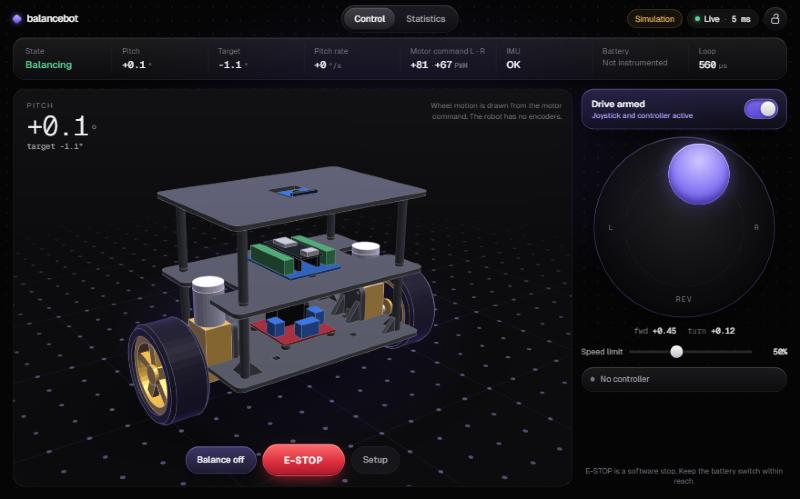
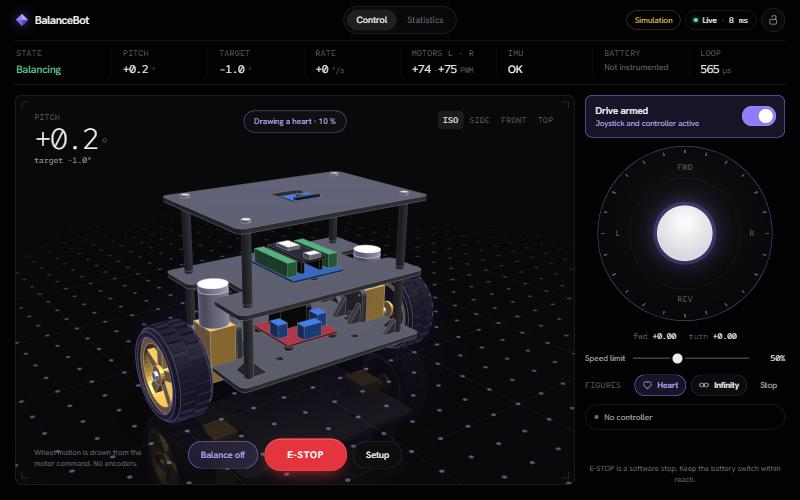
Docs, screenshots and on-robot verification for firmware 2.1.0
README: cover page, stacked signal panel with the PID terms, figures and
how they work, camera presets, new serial command. Research and test
report extended with the second pass, including the results of the
on-robot web self-test.

diff --git a/README.md b/README.md
@@ -108,7 +108,7 @@ The robot serves a two-page web app from its own flash. No internet and no insta
 
 1. Power the robot on. It creates a network called **`BalanceBot-XXXX`**, password **`balance123`** (you can change it in `config.h`). The exact name is shown by the `info` command.
 2. Join it from your phone, tablet or PC. If the device warns "no internet", choose to stay connected.
-3. Open **http://192.168.4.1/control** to drive, or **http://192.168.4.1/statistics** to watch.
+3. Open **http://192.168.4.1** for the cover page, **http://192.168.4.1/control** to drive, or **http://192.168.4.1/statistics** to watch.
 
 The two pages are independent: open Control on one device and Statistics on another at the same time. Both read the same live telemetry, and changing the page on one device does nothing to the other.
 
@@ -117,10 +117,11 @@ The two pages are independent: open Control on one device and Statistics on anot
 ![Control page](docs/img/control.jpg)
 
 - **Status strip:** state, pitch, target, pitch rate, the command sent to each motor, IMU, battery and loop time.
-- **Digital twin:** the robot in 3D, tilting with the measured pitch. Drag to orbit, double-click to reset the view.
+- **Digital twin:** the robot in 3D, tilting with the measured pitch. Drag to orbit, or pick **Iso / Side / Front / Top**. The side view shows the tilt best.
 - **Drive lock:** the switch above the joystick. Until you arm it, the robot only balances and ignores the joystick and the controller.
 - **Joystick:** up = forward, sides = turn. On a PC the arrow keys or WASD work too. Releasing it returns to neutral.
 - **Speed limit:** scales every drive command (default 50 %).
+- **Figures:** with driving armed, **Heart** or **Infinity** makes the robot drive that shape by itself (about 24 s, and about 1.5 m of clear floor). Moving the joystick, **Stop**, or locking the drive cancels it. If you try to drive while locked, the page tells you how to arm.
 - **Balance on/off** and **E-STOP.** E-STOP turns balancing off, locks driving and cancels any test. `Space` or `Esc` on a keyboard does the same.
 - **Padlock (top right):** locks you into this page so you cannot leave it by accident. Press and hold it for a second to unlock.
 - **Setup:** live tuning of all 14 parameters, save/reload, auto-tune, calibration, motor tests, controller mapping and the message log.
@@ -132,9 +133,16 @@ The two pages are independent: open Control on one device and Statistics on anot
 Read-only: this page only requests telemetry and never sends a command.
 
 - **Annotated twin:** numbered cards tied to the IMU, the controller board, the motor driver, each motor and the wheels by leader lines.
-- **Charts:** pitch vs target, motor command left/right, pitch rate, speed estimate and link round trip. Choose a 10, 30 or 60 s window; hover or tap for the value at a point in time.
+- **Signals:** one stacked panel with a shared time axis: pitch and target, the three **PID terms** with the output they add up to, the command to each motor, pitch rate, speed estimate and link round trip.
+  - Hover to read every signal at the same instant.
+  - **Pause**, then drag to go back in time and scroll to zoom; double-click returns to live.
+  - Dashed red lines mark the ±255 PWM limit. Lines break where samples are missing.
 - **Diagnostics:** operating state, IMU, sample rate received, data age, missed samples, failed polls, round trip, uptime, loop time, all controller parameters, and warnings.
 - **Experiments:** press **Record**, let the robot run, press **Stop**. Each run gets a summary (RMS error, max tilt, saturation, mean command, falls) with the gains that were in force, so runs can be compared. **CSV** downloads the samples for MATLAB or a spreadsheet. Recordings are kept in that browser; nothing is stored on the robot.
+
+### How the figures work, and their limits
+
+The robot follows the **heading** of the shape with the gyroscope while driving forward at a steady command. Heading is measured, so the outline is recognisable. Distance is not measured (there are no encoders), so the size, and whether the shape closes exactly, depend on the floor, the battery and how evenly the two motors pull. The heart starts and ends at its bottom tip; the infinity is two circles, one each way.
 
 ### What the app shows, and what it does not
 
@@ -202,7 +210,7 @@ and upload the sketch again. `web_assets.h` is committed, so the Arduino IDE nee
 node --test web/test/lib.test.js
 ```
 
-Everything uses the Python standard library; there are no npm packages. On the robot, the `webtest` serial command makes it download all of its own pages and report sizes and status.
+Everything uses the Python standard library; there are no npm packages. The typefaces are Hanken Grotesk and Red Hat Mono, Latin subsets, with their Open Font Licences in `web/fonts/`. The cover image is `web/img/cover.webp`. On the robot, the `webtest` serial command makes it download all of its own pages and report sizes and status.
 
 The digital twin uses the three deck models from [adoodevv/self_balancing_robot](https://github.com/adoodevv/self_balancing_robot) (`models/` folder) as they are. Motors, wheels and boards are parametric stand-ins with catalogue dimensions, placed on the mounting features of those decks. Design decisions and the libraries that were considered are in [docs/DESIGN_AND_TECH_RESEARCH.md](docs/DESIGN_AND_TECH_RESEARCH.md).
 
@@ -220,6 +228,7 @@ The digital twin uses the three deck models from [adoodevv/self_balancing_robot]
 | `autotune` / `autotune stop` | Self-tune `kp`, `kd`, `ks` while it balances (see section 4) |
 | `estop` | Stop: balancing off, driving locked, tests cancelled |
 | `arm` / `disarm` | Nano ESP32: unlock / lock driving (needed before `d`) |
+| `fig heart` · `fig inf` · `fig stop` | Nano ESP32: drive a heart or an infinity (optional duration in seconds, e.g. `fig heart 30`) |
 | `i2c` | Scan the I2C bus (wiring check) |
 | `webtest` | Nano ESP32: the robot downloads its own web pages and reports sizes and status |
 | `wifi` | Nano ESP32 radio check: TX power and the networks the robot can hear |

diff --git a/docs/DESIGN_AND_TECH_RESEARCH.md b/docs/DESIGN_AND_TECH_RESEARCH.md
@@ -122,3 +122,26 @@ Sources: [Mozilla Hacks, "Securing Gamepad API"](https://hacks.mozilla.org/2020/
 | Tests | `node --test` for pure logic, Python dev server with a simulated robot, browser checks | No new runtime dependency |
 
 New runtime dependencies added to the project: **none**. Build-time tools: Python 3 (standard library only). Fonts were subset once with `fonttools`.
+
+## H. Second pass (2026-11-15): charts, typography, cover
+
+**Charts.** Tools built for inspecting telemetry share a small set of conventions, and the first version of the Statistics page followed none of them (it was a grid of separate cards). What was adopted:
+
+| Convention | Seen in | Implemented as |
+|---|---|---|
+| Cursor shared by all panels, keyed by time and not by pixel | [Grafana shared crosshair](https://answers.splunk.com/answers/392159/index.html), [F1Laps telemetry](https://www.f1laps.com/blog/telemetry-synchronized-cursor-charts/), [ZingChart shared interactions](https://docs.zingchart.com/tutorials/features/shared-interactions) | One `ChartView` object holds the cursor time; every chart reads its value at that time |
+| Stacked rows with one time axis | Oscilloscopes, PlotJuggler, [Sift time-series panel](https://www.siftstack.com/mission-critical/open-zoom-share-the-time-series-panel-in-sift) | A single bordered panel of rows; only the last row carries time labels |
+| Pause before inspecting; X zoom separate from pan | [Zelos plot panel](https://zelos-docs.pages.dev/app/panels/plot-panel/), Sift | Pause freezes the right edge while data keeps buffering; drag pans, wheel zooms the window; double-click returns to live |
+| No interpolation across missing data | General practice in engineering plots | The line is lifted when two samples are more than 100 ms apart |
+| Stable vertical scale | Oscilloscope auto-range with hold | The range grows immediately and shrinks slowly |
+| Limits drawn on the plot | Control-room displays | Dashed reference lines at the ±255 PWM limit |
+
+The renderer stays custom (about 4 kB gzip). uPlot remains the documented alternative; its cursor-sync API was not needed once the view object existed.
+
+**PID chart.** The proportional, integral and derivative terms are now part of each telemetry sample, computed by the firmware in the control step, so the chart shows what the controller actually added up rather than a reconstruction in the browser.
+
+**Typography.** Geist was replaced because it is the default of many generated interfaces and gave the app that look. Eight open-licence families were rendered side by side in a specimen sheet with the app's own strings (a light headline, numeric read-outs, small caps labels): Hanken Grotesk, Host Grotesk, Instrument Sans, Schibsted Grotesk, Red Hat Mono, DM Mono, IBM Plex Mono and Azeret Mono. Chosen: **Hanken Grotesk** (closest to the light grotesque of the cover artwork) and **Red Hat Mono** (a light, open monospace with clear numerals). Both are OFL-1.1, from [google/fonts](https://github.com/google/fonts); weight ranges were trimmed and the files subset to Latin: 27 kB + 19 kB.
+
+**Visual language.** Taken from the cover artwork rather than from a component kit: white pills for what can be pressed, a dark pill for navigation, a light headline with a second clause in grey, monospace uppercase micro-labels. Panels are flat with hairlines; translucent material is kept only for elements that float over the twin. Violet is used for live data and armed states only.
+
+**Cover.** The supplied artwork is used unmodified as the cover (`/`), with transparent link areas over its own navigation and buttons, so it is pixel-identical to the file. It is 133 kB and is requested only by the cover page.

diff --git a/docs/IMPLEMENTATION_REPORT.md b/docs/IMPLEMENTATION_REPORT.md
@@ -144,3 +144,45 @@ Fidelity statement: the deck geometry is the CAD. Motors, wheels and boards are 
 - **Without the robot:** `python tools/dev_server.py`, then `http://localhost:8080/control`.
 - **Bridge for controllers:** `python tools/dev_server.py --robot http://192.168.4.1`.
 - **After editing `web/`:** `python tools/build_web.py`, then upload the sketch.
+
+## 12. Second pass (firmware 2.1.0, 2026-11-15)
+
+**Added**
+
+- Cover page at `/` using the supplied artwork unmodified, with link areas over its navigation and buttons, and two short text sections below it.
+- Statistics: the charts are now one stacked panel with a shared time axis and cursor, pause/pan/zoom, limit lines and gaps where data is missing. A **PID terms** row shows P, I, D and the output.
+- Firmware: the three PID terms are sent with every sample; `fig heart`, `fig inf`, `fig stop` drive a figure by gyro heading; `/` serves the app.
+- Control: Heart / Infinity buttons, camera presets for the twin, and a prompt explaining how to arm when the joystick or the controller is used while locked.
+- Twin: reflection in the floor, studio reflection on metal parts, tyre tread, hub nuts and deck screws (11 656 triangles, 26 kB gzip).
+- Typography and visual language replaced (see `DESIGN_AND_TECH_RESEARCH.md`, section H).
+
+**Tested**
+
+| Test | Result |
+|---|---|
+| Unit tests | 8 of 8 |
+| Compile, both boards | Nano ESP32 1 269 kB (40 %); classic Nano 27 904 bytes (90 %, unchanged) |
+| Cover in Chromium | Image shown at its exact aspect ratio; its 12 link areas point to the intended pages; the cover makes no request to the robot API |
+| Shared cursor | Hovering one chart sets the cursor time for all and updates every legend |
+| Pause, pan, zoom | Pause freezes the view while samples keep buffering; panning moved the view by the requested 3 s; wheel changed the window 30 → 24 s; double-click returned to live |
+| PID terms | Present in the simulated telemetry and drawn; the response to a disturbance is visible in P, D and output |
+| Figures, **simulated robot** | Heart: refused while locked with a prompt; ran when armed, showing progress; the path integrated from the simulated yaw rate and speed estimate is a recognisable heart, closing to within 0.07 of its 0.6 extent |
+| Layout | No horizontal overflow where measured: cover at 1280 × 720 and 390 × 780, Control at 390 × 780 and 780 × 390 (everything on one screen), Statistics at 390 × 780. No console errors on any page |
+
+**On the real Nano ESP32 (firmware 2.1.0 flashed, USB serial)**
+
+| Test | Result |
+|---|---|
+| `webtest` | All 10 resources returned `200` with the exact byte counts, including the 132 900-byte cover image |
+| `webtest dump` | `/t` is valid JSON with 13 fields per sample (the three PID terms included), 20 ms apart, plus `fig` and `fp`; `/s` reports firmware 2.1.0 |
+| `fig heart` while locked | Refused: "Cannot start: the robot must be balancing and driving armed by you" |
+| Saved parameters | Kept across the update (motor inversion and gains unchanged) |
+
+**Not tested**
+
+- The app in a browser against the real robot, as in the first pass.
+- The figures on a real floor. Their size and closure depend on the surface and the motors, and the heading gains (`FIG_TURN_GAIN`, `FIG_DRIVE` in `config.h`) may need adjusting.
+- The infinity figure was implemented with the same code path as the heart but only the heart was run in the simulator.
+- Safari and Firefox.
+
+**Note on the cover artwork.** The image was supplied by the project owner. Its composition closely follows a published third-party web design; if the repository stays public, check that the artwork may be redistributed.
